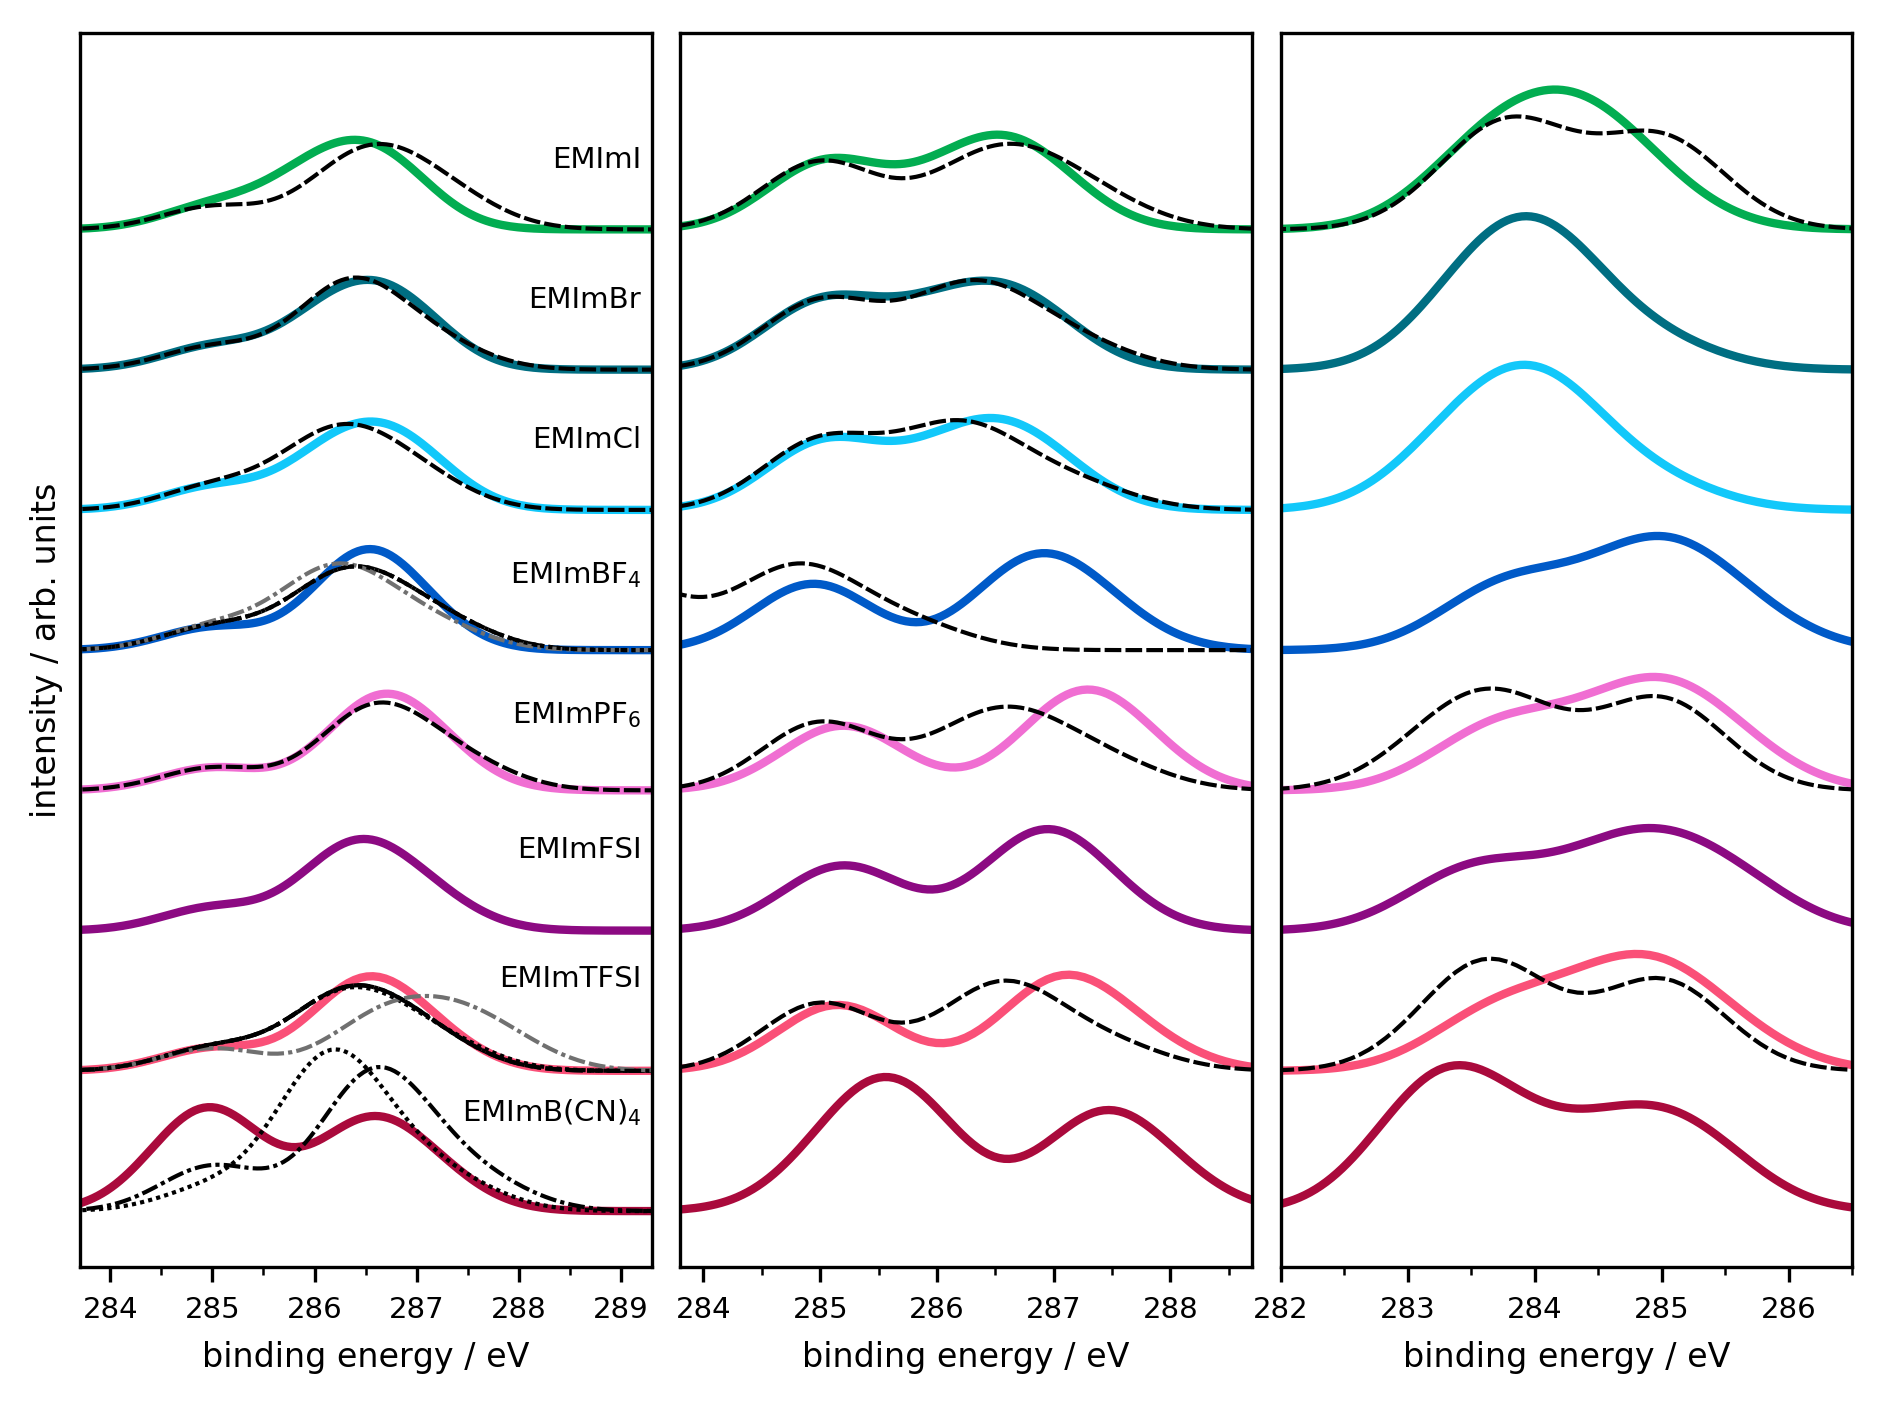
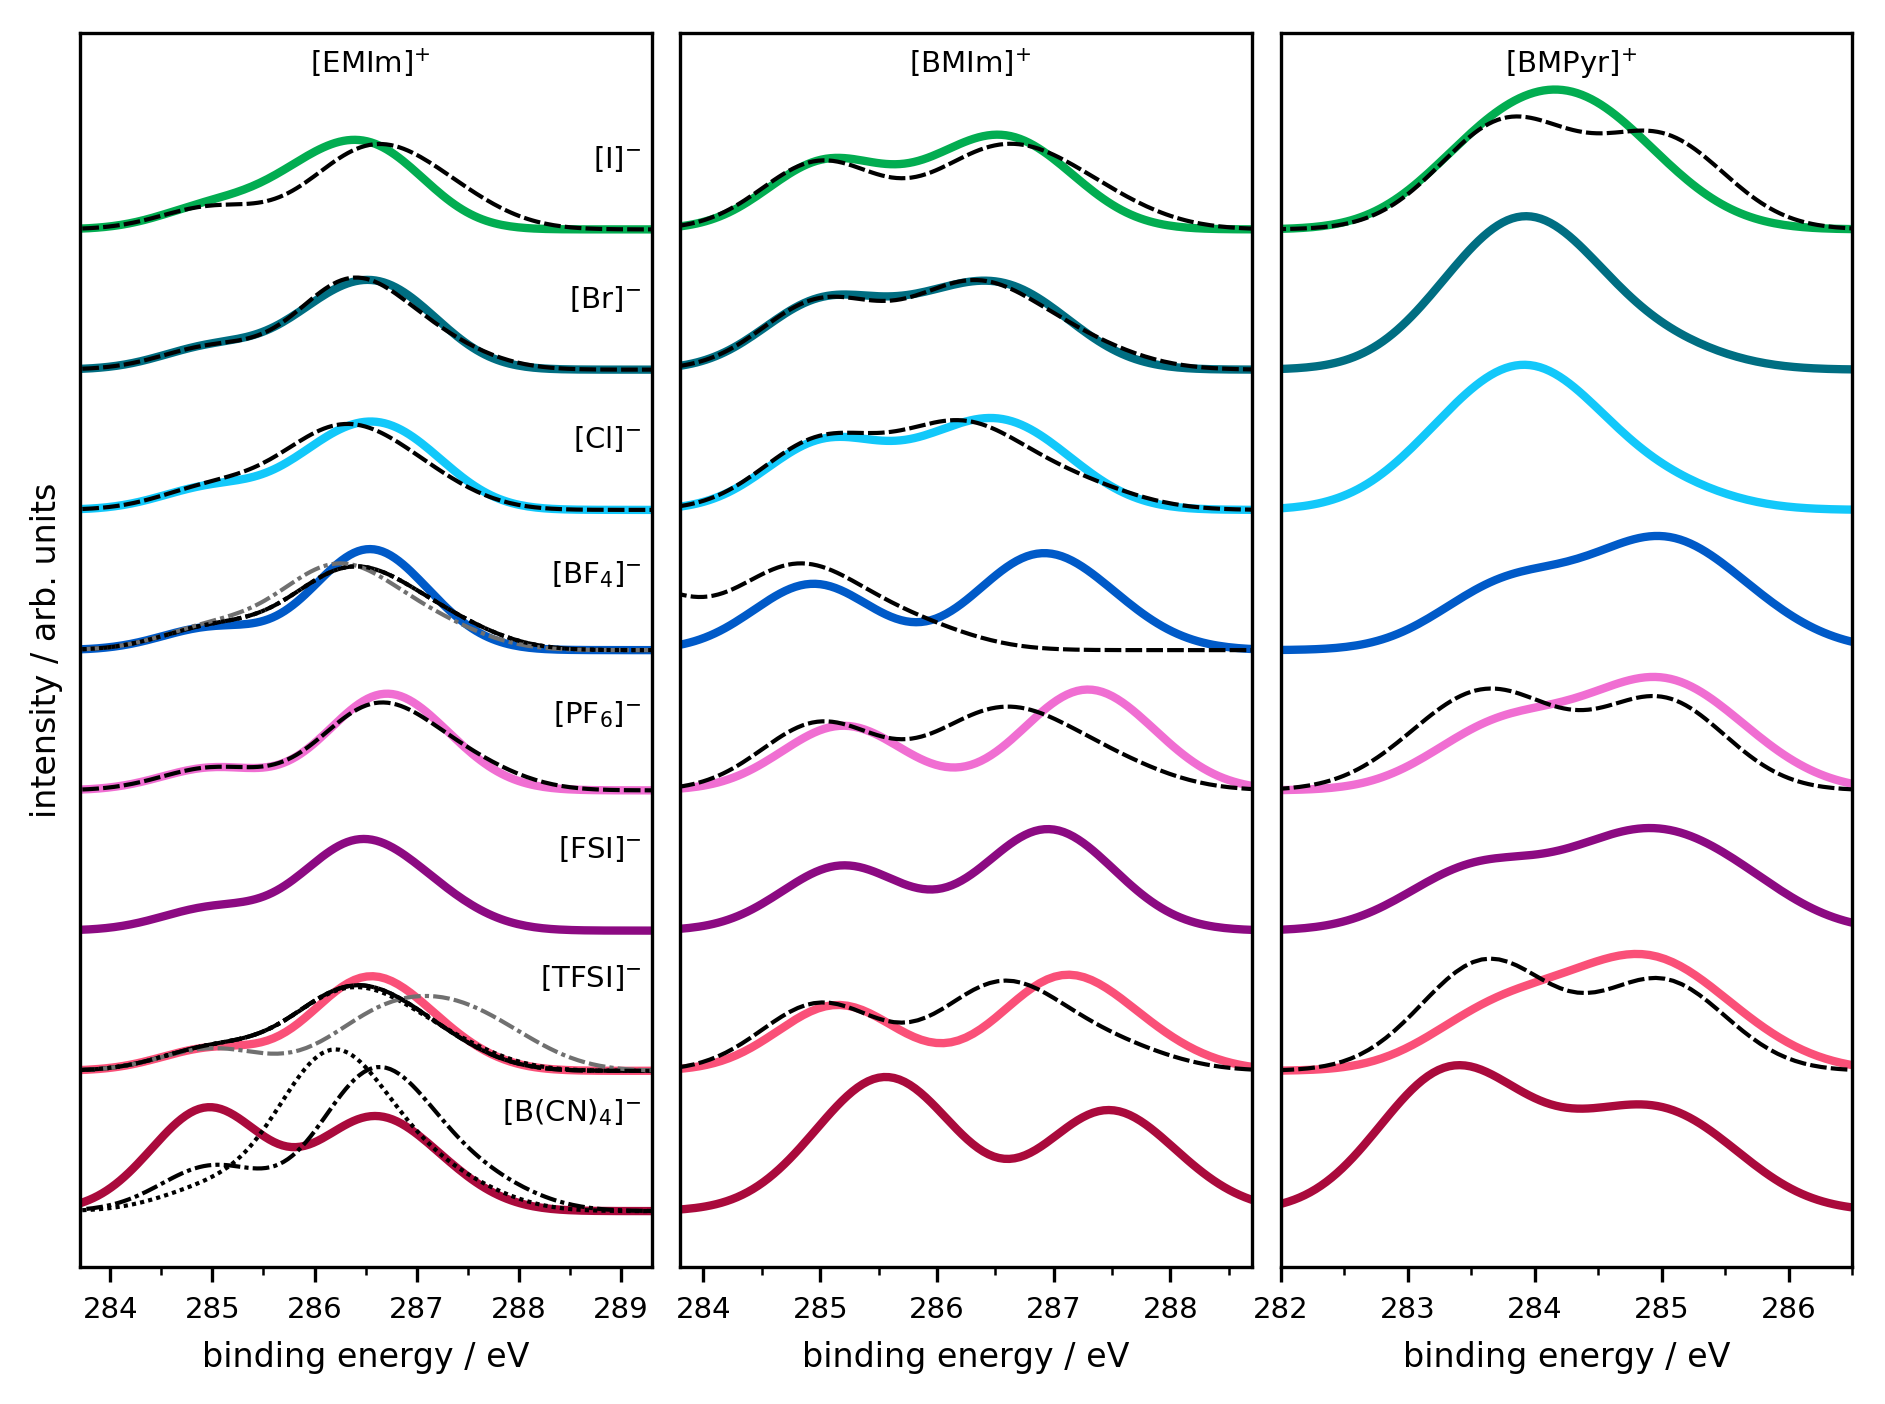
Added cation names

diff --git a/figure_twocolumns.py b/figure_twocolumns.py
@@ -188,17 +188,35 @@ ax2.set_xticks([282.5,283.5,284.5,285.5,286.5],minor=True)
 
 #* Text legends
 scale = 6.25
-legends = [ [289.2,  4, r"EMImB(CN)$_{4}$"],
-			[289.2, 10, r"EMImTFSI"],
-			[289.2, 15.75, r"EMImFSI"],
-			[289.2, 21.75, r"EMImPF$_{6}$"],
-			[289.2, 28, r"EMImBF$_{4}$"],
-			[289.2, 34.0, r"EMImCl"],
-			[289.2, 40.25, r"EMImBr"],
-			[289.2, 46.5, r"EMImI"]]
+legends = [ [289.2,  4,    r"[B(CN)$_{4}$]$^{-}$"],
+			[289.2, 10,    r"[TFSI]$^{-}$"],
+			[289.2, 15.75, r"[FSI]$^{-}$"],
+			[289.2, 21.75, r"[PF$_{6}$]$^{-}$"],
+			[289.2, 28,    r"[BF$_{4}$]$^{-}$"],
+			[289.2, 34.0,  r"[Cl]$^{-}$"],
+			[289.2, 40.25, r"[Br]$^{-}$"],
+			[289.2, 46.5,  r"[I]$^{-}$"]]
 
 for item in legends:
 	ax0.text(*item, horizontalalignment='right', rotation=0, size=7, color='k')
+
+# Extra space in string for padding to offset + sign
+topnames = [r" [EMIm]$^{+}$",
+			r" [BMIm]$^{+}$",
+			r" [BMPyr]$^{+}$"]
+
+# Hardcoded xlims, adjust if needed
+ax0.text((283.7+289.3)/2,50.75,topnames[0],
+			horizontalalignment='center', rotation=0, 
+			size=7, color='k')
+
+ax1.text((283.8+288.7)/2,50.75,topnames[1],
+			horizontalalignment='center', rotation=0, 
+			size=7, color='k')
+
+ax2.text((282+286.5)/2,50.75,topnames[2],
+			horizontalalignment='center', rotation=0, 
+			size=7, color='k')
 
 
 #plt.title(r"%s %s1s XPS spectra" % ('EMIm cation', atom))
